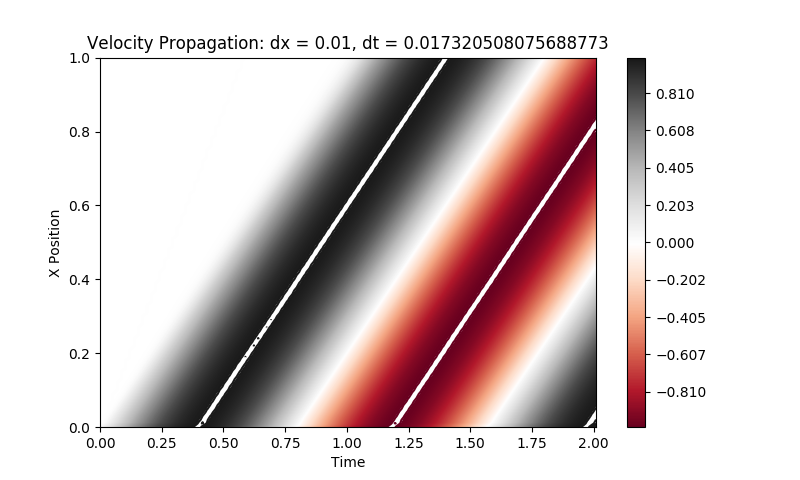
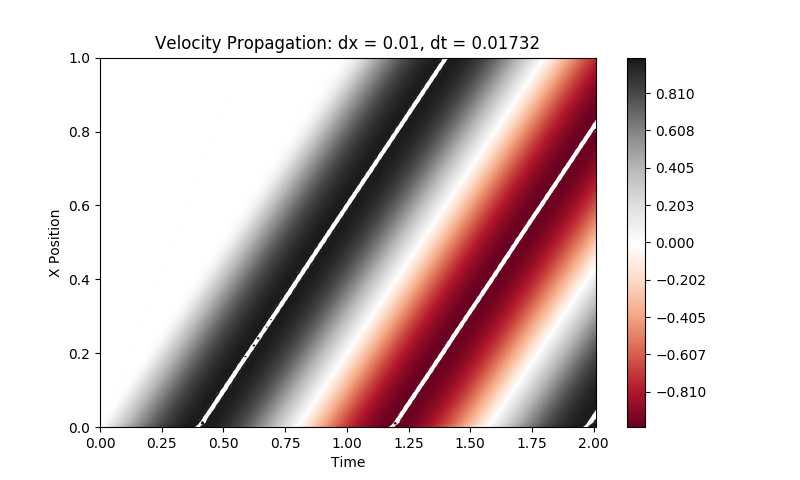
Added question 1

Changed region(s): [[0.0938, 0.0625, 0.7812, 0.125]]

diff --git a/homework_4/question_1.py b/homework_4/question_1.py
@@ -1,0 +1,71 @@
+from pathlib import Path
+
+import matplotlib.pyplot as plt
+import pandas as pd
+import numpy as np
+
+
+def line_plot(x, y, title):
+    fig, ax = plt.subplots(figsize=(8, 4.8))
+    ax.set_position([.15, .14, .575, .78])
+    ax.plot(x, y)
+    ax.set_title(title)
+    ax.set_xlabel("X Position")
+    ax.set_ylabel("Velocity")
+    return fig, ax
+
+
+def contour_plot(df: pd.DataFrame, title: str):
+    fig, ax = plt.subplots(figsize=(8, 4.8))
+    ax.set_position([.15, .14, .575, .78])
+    for plot_grain in reversed(range(1000)):
+        try:  # Plot with max possible contour lines
+            contour = ax.contour(
+                list(df.columns),
+                df.index,
+                df.values,
+                plot_grain,
+                cmap='RdGy'
+            )
+            break  # It worked!
+        except RuntimeError:  # Did not work
+            pass
+
+    ax.set_title(title)
+    ax.set_ylabel("X Position")
+    ax.set_xlabel("Time")
+    plt.colorbar(contour)
+
+    return fig, ax
+
+
+def u_func(x: np.array, t: np.array):
+    theta = x - 2 * t
+    theta = np.where((0 < theta) & (theta <= 1), theta, 2 - theta)
+    return np.where((0 < theta) & (theta <= 2), theta, 0)
+
+
+if __name__ == "__main__":
+    x_array = np.arange(-0.5, 4.5, 0.01)
+    t_array = np.arange(0, 2, 0.01)
+    solution = pd.DataFrame({t: u_func(x_array, t) for t in t_array})
+    solution.index = x_array
+
+    OUTPUT_DIR = Path(__file__).parent / 'plot'
+    question_1 = OUTPUT_DIR / 'question_1'
+    question_1.mkdir(parents=True, exist_ok=True)
+
+    for t in np.arange(0, 2, 0.25):
+        t = np.where(solution.columns >= t)[0][0]
+        fig, ax = line_plot(
+            x=solution.index,
+            y=solution.iloc[:, t],
+            title=f"t = {solution.columns[t]}"
+        )
+        fig.savefig(question_1 / f"Line Plot - t_{t}.png")
+
+    fig, ax = contour_plot(
+        solution,
+        title=f"Velocity Propagation: dx = {0.01}, dt = {0.01}"
+    )
+    fig.savefig(question_1 / "Contour Plot.png")

diff --git a/homework_4/question_2.py b/homework_4/question_2.py
@@ -142,7 +142,7 @@ if __name__ == '__main__':
 
     fig, ax = contour_plot(
         solution,
-        title=f"Velocity Propagation: dx = {dx}, dt = {dt}"
+        title=f"Velocity Propagation: dx = {dx}, dt = {round(dt, 5)}"
     )
     fig.savefig(stable_output / "Contour Plot.png")
 
@@ -169,7 +169,7 @@ if __name__ == '__main__':
 
     fig, ax = contour_plot(
         unstable,
-        title=f"Velocity Propagation: dx = {dx}, dt = {dt * 1.1}"
+        title=f"Velocity Propagation: dx = {dx}, dt = {round(dt * 1.1, 5)}"
     )
     fig.savefig(unstable_output / "Contour Plot.png")
 
